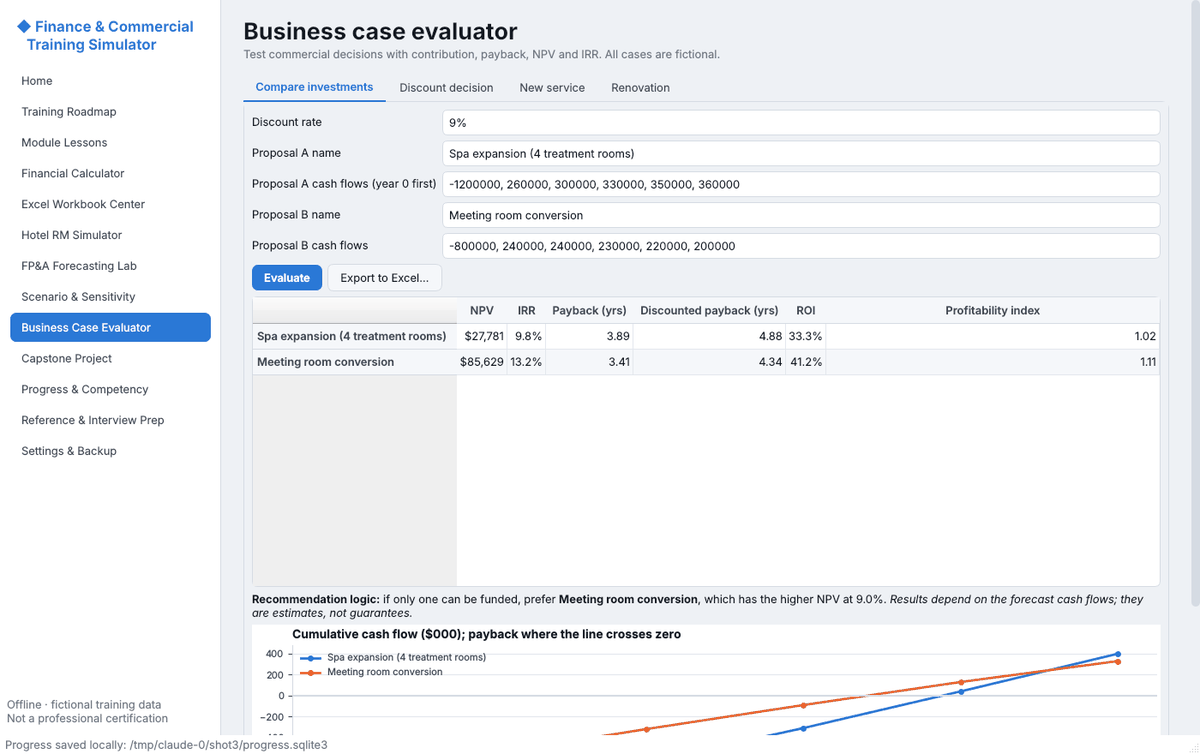
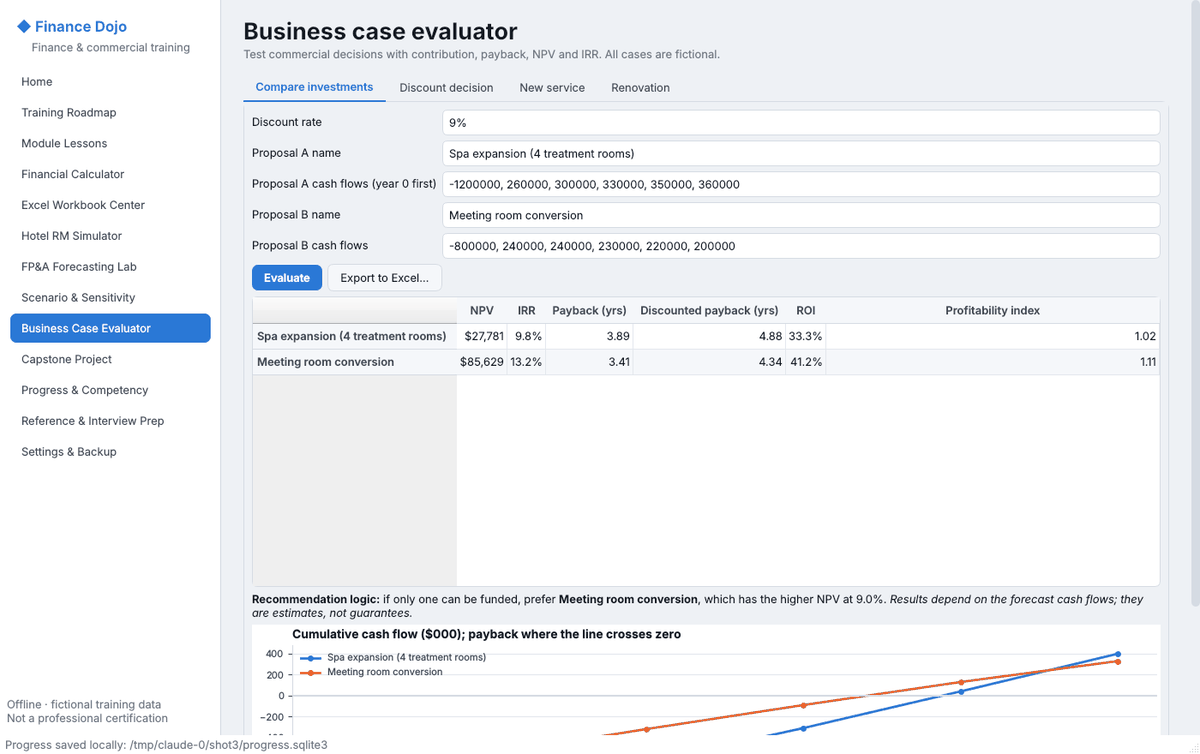
Rename the app to Finance Dojo
The window title, sidebar, exports, docs, exe, zip and build scripts now use
the Finance Dojo name. The per-user data folder becomes %APPDATA%\Finance_Dojo;
progress in the old Finance_Commercial_Training folder is copied over on first
start and the original is left in place.

Claude-Session: https://claude.ai/code/session_011X2bGRbbM1wG3sUYL2koaP

diff --git a/tests/test_paths.py b/tests/test_paths.py
@@ -1,0 +1,53 @@
+"""The per-user data folder, including the one-time copy from the pre-rename folder."""
+import os
+from pathlib import Path
+
+from fts import paths
+
+
+def _roots(monkeypatch, tmp_path):
+    monkeypatch.delenv("FTS_DATA_DIR", raising=False)
+    monkeypatch.setenv("APPDATA", str(tmp_path / "appdata"))
+    monkeypatch.setenv("HOME", str(tmp_path / "home"))
+    monkeypatch.setenv("USERPROFILE", str(tmp_path / "home"))
+    if os.name == "nt":
+        base = tmp_path / "appdata"
+        return base / paths.LEGACY_APP_NAME, base / paths.APP_NAME
+    base = tmp_path / "home"
+    return base / paths.LEGACY_HOME_DIR, base / ".finance_dojo"
+
+
+def test_old_progress_is_copied_to_new_folder(monkeypatch, tmp_path):
+    old, new = _roots(monkeypatch, tmp_path)
+    (old / "exports").mkdir(parents=True)
+    (old / "progress.sqlite3").write_bytes(b"saved progress")
+    (old / "exports" / "report.html").write_text("r")
+
+    assert paths.user_data_dir() == new
+    assert (new / "progress.sqlite3").read_bytes() == b"saved progress"
+    assert (new / "exports" / "report.html").exists()
+    assert (old / "progress.sqlite3").exists()          # original is kept
+
+
+def test_existing_new_folder_is_never_overwritten(monkeypatch, tmp_path):
+    old, new = _roots(monkeypatch, tmp_path)
+    old.mkdir(parents=True)
+    (old / "progress.sqlite3").write_bytes(b"old")
+    new.mkdir(parents=True)
+    (new / "progress.sqlite3").write_bytes(b"new")
+
+    assert paths.user_data_dir() == new
+    assert (new / "progress.sqlite3").read_bytes() == b"new"
+
+
+def test_fresh_install_creates_empty_folder(monkeypatch, tmp_path):
+    _, new = _roots(monkeypatch, tmp_path)
+    assert paths.user_data_dir() == new
+    assert new.is_dir() and not any(new.iterdir())
+
+
+def test_override_skips_migration(monkeypatch, tmp_path):
+    old, _ = _roots(monkeypatch, tmp_path)
+    old.mkdir(parents=True)
+    monkeypatch.setenv("FTS_DATA_DIR", str(tmp_path / "custom"))
+    assert paths.user_data_dir() == Path(tmp_path / "custom")

diff --git a/fts/paths.py b/fts/paths.py
@@ -2,10 +2,14 @@
 from __future__ import annotations
 
 import os
+import shutil
 import sys
 from pathlib import Path
 
-APP_NAME = "Finance_Commercial_Training"
+APP_NAME = "Finance_Dojo"
+# Folder names used before the app was renamed; progress found there is copied over once.
+LEGACY_APP_NAME = "Finance_Commercial_Training"
+LEGACY_HOME_DIR = ".finance_commercial_training"
 
 
 def resource_root() -> Path:
@@ -30,8 +34,8 @@ def docs_dir() -> Path:
 def user_data_dir() -> Path:
     """Writable per-user folder for the progress database and exports.
 
-    Windows: %APPDATA%/Finance_Commercial_Training
-    Other:   ~/.finance_commercial_training
+    Windows: %APPDATA%/Finance_Dojo
+    Other:   ~/.finance_dojo
     Override with the FTS_DATA_DIR environment variable (used by tests).
     """
     override = os.environ.get("FTS_DATA_DIR")
@@ -39,10 +43,25 @@ def user_data_dir() -> Path:
         p = Path(override)
     elif os.name == "nt" and os.environ.get("APPDATA"):
         p = Path(os.environ["APPDATA"]) / APP_NAME
+        _adopt_legacy(Path(os.environ["APPDATA"]) / LEGACY_APP_NAME, p)
     else:
-        p = Path.home() / ".finance_commercial_training"
+        p = Path.home() / ".finance_dojo"
+        _adopt_legacy(Path.home() / LEGACY_HOME_DIR, p)
     p.mkdir(parents=True, exist_ok=True)
     return p
+
+
+def _adopt_legacy(old: Path, new: Path) -> None:
+    """Copy progress from the pre-rename folder the first time the new one is needed.
+
+    The old folder is left in place, so nothing is lost if the copy is interrupted.
+    """
+    if new.exists() or not old.is_dir():
+        return
+    try:
+        shutil.copytree(old, new)
+    except OSError:
+        shutil.rmtree(new, ignore_errors=True)
 
 
 def exports_dir() -> Path:

diff --git a/fts/reports/export.py b/fts/reports/export.py
@@ -159,7 +159,7 @@ h1{{color:#1f3a5f}} table.t{{border-collapse:collapse;width:100%;font-size:13px;
 .t th{{background:#1f3a5f;color:#fff;padding:6px;text-align:left}} .t td{{border-bottom:1px solid #e3e7ed;padding:5px}}
 .note{{background:#fff7e0;border:1px solid #f0d58a;padding:10px;border-radius:6px}}</style></head><body>
 <h1>Final competency report: {html.escape(name)}</h1>
-<p>Generated {dt.datetime.now():%d %b %Y %H:%M} · Finance &amp; Commercial Training Simulator</p>
+<p>Generated {dt.datetime.now():%d %b %Y %H:%M} · Finance Dojo</p>
 <p><b>Exercise attempts:</b> {n_att} ({n_ok} correct) · <b>Capstone:</b> {cap}</p>
 <p class="note">{DISCLAIMER_CERT} Levels: Beginner &lt; 40 ≤ Developing &lt; 70 ≤ Competent. "Job-ready for supervised
 tasks" also requires a score of 85+, all practical exercises solved without revealing the solution, all practical
@@ -176,7 +176,7 @@ def progress_report_xlsx(ctx_db, skills, path) -> Path:
 
 def answer_key_markdown() -> str:
     out = ["# Instructor answer key", "",
-           "Finance & Commercial Training Simulator. All data is fictional. Answers are generated from the same "
+           "Finance Dojo. All data is fictional. Answers are generated from the same "
            "code the app uses to check students, and selected values are verified by independent hand calculations "
            "in the automated tests (`tests/test_content.py`).", "",
            "Tolerance: percentages ±0.06 percentage points; currency ±$0.60 or 0.05%; numbers ±0.01 or 0.05% unless "

diff --git a/fts/ui/app.py b/fts/ui/app.py
@@ -21,7 +21,7 @@ from ..core import mastery
 from ..storage.db import Progress
 from . import theme
 
-APP_TITLE = "Finance & Commercial Training Simulator"
+APP_TITLE = "Finance Dojo"
 
 # key: (navigation title, module path, class name)
 SCREENS = {
@@ -114,9 +114,12 @@ class MainWindow(QMainWindow):
         side.setFixedWidth(258)
         sl = QVBoxLayout(side)
         sl.setContentsMargins(8, 12, 8, 12)
-        brand = QLabel("◆ Finance & Commercial\n   Training Simulator")
+        brand = QLabel("◆ Finance Dojo")
         brand.setObjectName("Brand")
         sl.addWidget(brand)
+        tagline = QLabel("Finance & commercial training")
+        tagline.setObjectName("BrandSub")
+        sl.addWidget(tagline)
         self.nav = QListWidget()
         self.nav.setObjectName("Nav")
         for key, (title, *_rest) in SCREENS.items():
@@ -247,7 +250,7 @@ def self_test(app: QApplication) -> int:
 def run(argv=None) -> int:
     argv = argv if argv is not None else sys.argv
     app = QApplication.instance() or QApplication(argv)
-    app.setApplicationName("Finance_Commercial_Training")
+    app.setApplicationName("Finance_Dojo")
     app.setStyle("Fusion")          # same look on every Windows version; the stylesheet themes it
     if "--self-test" in argv:
         return self_test(app)

diff --git a/fts/ui/theme.py b/fts/ui/theme.py
@@ -58,7 +58,8 @@ QLabel#Bad {{ color: {p.bad}; font-weight: 600; }}
 QLabel#Warn {{ color: {p.warn}; font-weight: 600; }}
 QFrame#Card {{ background: {p.surface}; border: 1px solid {p.border}; border-radius: 10px; }}
 QFrame#Sidebar {{ background: {p.surface}; border-right: 1px solid {p.border}; }}
-QLabel#Brand {{ font-size: {base_pt + 3}pt; font-weight: 700; color: {p.accent}; padding: 8px 6px; }}
+QLabel#Brand {{ font-size: {base_pt + 3}pt; font-weight: 700; color: {p.accent}; padding: 8px 6px 0px 6px; }}
+QLabel#BrandSub {{ color: {p.muted}; padding: 0px 6px 8px 26px; }}
 QListWidget#Nav {{ background: transparent; border: none; outline: 0; }}
 QListWidget#Nav::item {{ padding: 9px 10px; border-radius: 7px; margin: 1px 4px; color: {p.text2}; }}
 QListWidget#Nav::item:hover {{ background: {p.surface2}; }}

diff --git a/fts/ui/screens/settings.py b/fts/ui/screens/settings.py
@@ -96,7 +96,7 @@ class SettingsScreen(Screen):
         self.body.addWidget(inst)
 
         about = Card("About")
-        about.add(label("Finance & Commercial Training Simulator. Works offline. All companies, hotels and figures "
+        about.add(label("Finance Dojo. Works offline. All companies, hotels and figures "
                         "are fictional training data, not industry benchmarks. Forecasts and valuations in the app "
                         "are illustrative estimates, never guarantees. " + export.DISCLAIMER_CERT))
         self.body.addWidget(about)

diff --git a/fts/data/generator.py b/fts/data/generator.py
@@ -21,8 +21,8 @@ HOTEL_NAME = "The Aurelia Grand Hotel"      # fictional
 ROOMS = 150
 YEAR = 2025
 RETAIL_NAME = "Harbor Lane Outfitters"      # fictional
-DISCLAIMER = ("Fictional training data generated by Finance & Commercial Training "
-              "Simulator. Not real company or industry data.")
+DISCLAIMER = ("Fictional training data generated by Finance Dojo. "
+              "Not real company or industry data.")
 
 MONTHS = [calendar.month_abbr[i] for i in range(1, 13)]
 SEGMENTS = ["Corporate", "Transient", "Group", "Leisure"]

diff --git a/docs/USER_GUIDE.md b/docs/USER_GUIDE.md
@@ -1,18 +1,18 @@
-# User guide: Finance & Commercial Training Simulator
+# User guide: Finance Dojo
 
 A hands-on Windows desktop course in financial and commercial analysis for beginners. It covers financial foundations, Excel modelling, hotel revenue management, FP&A and budgeting, forecasting, commercial decisions, NPV/IRR, management reporting and a capstone project.
 
 The app works fully offline. Every company, hotel and number in it is **fictional training data**. It is not an industry benchmark. Forecasts and valuations in the app are illustrative estimates and never guarantees. **Completing this simulator is not a professional certification and does not guarantee employment.**
 
-> The ready-made Windows app is published as a zip on the repository's **Releases** page, and each build of the main branch is also available from the **Actions** tab (artifact `Finance_Commercial_Training_Windows`). See [VERIFICATION_REPORT.md](VERIFICATION_REPORT.md) for exactly what was tested and where.
+> The ready-made Windows app is published as a zip on the repository's **Releases** page, and each build of the main branch is also available from the **Actions** tab (artifact `Finance_Dojo_Windows`). See [VERIFICATION_REPORT.md](VERIFICATION_REPORT.md) for exactly what was tested and where.
 
 ---
 
 ## 1. Use the ready-made exe
 
-1. Download `Finance_Commercial_Training_Windows.zip` from the Releases page and unzip it, for example to `C:\FinanceTraining`.
-2. Double-click `Finance_Commercial_Training\Finance_Commercial_Training.exe`. Windows SmartScreen may warn because the exe is not code-signed. Click *More info → Run anyway*.
-3. Optional check: in that folder, type `cmd` in the address bar, then run `Finance_Commercial_Training.exe --self-test`. Then open `%APPDATA%\Finance_Commercial_Training\self_test_report.txt`; the last line should say `RESULT: PASS`.
+1. Download `Finance_Dojo_Windows.zip` from the Releases page and unzip it, for example to `C:\FinanceTraining`.
+2. Double-click `Finance_Dojo\Finance_Dojo.exe`. Windows SmartScreen may warn because the exe is not code-signed. Click *More info → Run anyway*.
+3. Optional check: in that folder, type `cmd` in the address bar, then run `Finance_Dojo.exe --self-test`. Then open `%APPDATA%\Finance_Dojo\self_test_report.txt`; the last line should say `RESULT: PASS`.
 
 ## 1b. Build the .exe yourself on Windows (about 10 minutes, one time)
 
@@ -28,12 +28,12 @@ The app works fully offline. Every company, hotel and number in it is **fictiona
 4. When it prints **BUILD SUCCEEDED**, the app is here:
 
    ```
-   dist\Finance_Commercial_Training\Finance_Commercial_Training.exe
+   dist\Finance_Dojo\Finance_Dojo.exe
    ```
 
-   A zip of that folder is at `dist\Finance_Commercial_Training_Windows.zip`. Copy the zip to any Windows 10/11 PC, unzip it and double-click the exe. That PC does not need Python.
+   A zip of that folder is at `dist\Finance_Dojo_Windows.zip`. Copy the zip to any Windows 10/11 PC, unzip it and double-click the exe. That PC does not need Python.
 
-**Single-file exe instead of a folder:** run `build_windows.bat -OneFile`. The result is `dist\Finance_Commercial_Training.exe`. One file is easier to share, but it starts more slowly because it unpacks itself each time.
+**Single-file exe instead of a folder:** run `build_windows.bat -OneFile`. The result is `dist\Finance_Dojo.exe`. One file is easier to share, but it starts more slowly because it unpacks itself each time.
 
 **Manual equivalent** (PowerShell, in this folder):
 
@@ -42,8 +42,8 @@ py -3.12 -m venv .venv
 .\.venv\Scripts\python.exe -m pip install -r requirements-dev.txt
 .\.venv\Scripts\python.exe scripts\generate_assets.py
 .\.venv\Scripts\python.exe -m pytest -q
-.\.venv\Scripts\python.exe -m PyInstaller --noconfirm --clean Finance_Commercial_Training.spec
-.\dist\Finance_Commercial_Training\Finance_Commercial_Training.exe --self-test
+.\.venv\Scripts\python.exe -m PyInstaller --noconfirm --clean Finance_Dojo.spec
+.\dist\Finance_Dojo\Finance_Dojo.exe --self-test
 ```
 
 Problems? See [TROUBLESHOOTING.md](TROUBLESHOOTING.md).
@@ -54,7 +54,7 @@ Problems? See [TROUBLESHOOTING.md](TROUBLESHOOTING.md).
 python3.12 -m venv .venv
 .venv/bin/pip install -r requirements-dev.txt     # Windows: .venv\Scripts\pip
 .venv/bin/python main.py
-.venv/bin/python -m pytest -q                     # 164 tests
+.venv/bin/python -m pytest -q                     # 168 tests
 ```
 
 ## 3. What is inside the app
@@ -106,8 +106,8 @@ The app **creates and reads `.xlsx` files**. It does **not** open, control or ed
 - **XLOOKUP:** it is accepted, but needs Excel 2021 or Microsoft 365. Older versions can use INDEX/MATCH, which is the model answer.
 
 ## 4. Where things are stored
-- **Progress:** `%APPDATA%\Finance_Commercial_Training\progress.sqlite3` on Windows. Use Settings → Back up progress to copy it.
-- **Exports:** by default `%APPDATA%\Finance_Commercial_Training\exports\`. Settings has buttons that open both folders.
+- **Progress:** `%APPDATA%\Finance_Dojo\progress.sqlite3` on Windows. Use Settings → Back up progress to copy it.
+- **Exports:** by default `%APPDATA%\Finance_Dojo\exports\`. Settings has buttons that open both folders.
 - **Restore:** restoring checks that the file is a valid backup and keeps a safety copy of your current progress first.
 
 ## 5. Project layout
@@ -126,12 +126,12 @@ workbooks/                      practice workbook + instructor answer-key workbo
 docs/ANSWER_KEY.md              instructor answer key for every exercise, quiz, workbook task and capstone item
 docs/TROUBLESHOOTING.md         build and runtime problems
 docs/VERIFICATION_REPORT.md     what was tested, how, and what was not
-tests/                          164 automated tests (pytest)
+tests/                          168 automated tests (pytest)
 scripts/generate_assets.py      regenerate datasets, workbooks and the answer key
 scripts/make_icon.py            draws assets/app.ico
 scripts/build_exe_with_wine.sh  builds the Windows exe on Linux with Wine
 .github/workflows/windows.yml   CI: tests, exe build and exe self-test on Windows
-Finance_Commercial_Training.spec PyInstaller build definition
+Finance_Dojo.spec PyInstaller build definition
 build_windows.bat / .ps1        reproducible Windows build
 requirements.txt                pinned runtime packages (requirements-dev.txt adds pytest + PyInstaller)
 ```

diff --git a/docs/VERIFICATION_REPORT.md b/docs/VERIFICATION_REPORT.md
@@ -6,9 +6,9 @@ Date: 2026-10-16. Environment: Linux (Ubuntu 24.04 container) with Wine 9.0 for 
 
 | Item | Status |
 |---|---|
-| Automated test suite, Linux Python | **164 passed, 0 failed, 0 skipped** (`pytest -q`, with `QT_QPA_PLATFORM=offscreen` for the UI tests) |
-| Automated test suite, **Windows Python 3.12.10 under Wine** | **163 passed, 1 skipped.** The skipped test is the LibreOffice recalculation check, because LibreOffice is not installed on the Windows side. The UI tests ran with the Windows build of Qt |
-| **Windows `Finance_Commercial_Training.exe`** | **Built** with PyInstaller 6.11.1 running on Windows Python under Wine (`scripts/build_exe_with_wine.sh`). The result is a 64-bit Windows GUI executable (PE32+, x86-64), one-folder build, 190 MB unzipped and 83 MB zipped |
+| Automated test suite, Linux Python | **168 passed, 0 failed, 0 skipped** (after the rename to Finance Dojo) (`pytest -q`, with `QT_QPA_PLATFORM=offscreen` for the UI tests) |
+| Automated test suite, **Windows Python 3.12.10 under Wine** | **163 passed, 1 skipped** (164-test version, before the rename). The skipped test is the LibreOffice recalculation check, because LibreOffice is not installed on the Windows side. The UI tests ran with the Windows build of Qt |
+| **Windows exe under Wine** (then named `Finance_Commercial_Training.exe`) | **Built** with PyInstaller 6.11.1 running on Windows Python under Wine (`scripts/build_exe_with_wine.sh`). The result is a 64-bit Windows GUI executable (PE32+, x86-64), one-folder build, 190 MB unzipped and 83 MB zipped |
 | Exe self-test (`--self-test`) | **PASS, 29/29 under Wine:** all 12 screens open in both themes, and the RevPAR, NPV and answer-key grading checks pass |
 | Exe started normally as a window | **Done under Wine on a virtual display.** The window rendered correctly in the dark theme and the progress database was created in the data folder |
 | **Real Windows (GitHub Actions `windows-latest`, Windows Server 2025, 10.0.26100)** | **Passed** ([run 1](https://github.com/mutima89/finance-dojo/actions/runs/38874275356)). Tests: **163 passed, 1 skipped** (LibreOffice is not installed there). The exe was built with PyInstaller on Windows and **its `--self-test` passed 29/29** using Qt's native Windows platform (not offscreen). Every push to `main` repeats this |
@@ -37,13 +37,14 @@ Date: 2026-10-16. Environment: Linux (Ubuntu 24.04 container) with Wine 9.0 for 
 | `test_content.py` | 26 | 8 modules with all lesson parts; each expected answer is accepted when typed exactly as displayed; every skill is taught; selected answers recomputed independently by hand; the capstone totals 100 points and scores correctly; irrelevant KPIs are penalised; the cleaning answers are right |
 | `test_storage_mastery.py` | 10 | Progress persists across restarts; quiz and time logging; settings bounds; backup → reset → restore; exercise credit rules; **job-ready is impossible without the capstone, with quiz scores alone, or after revealing a practical solution**; weak-topic detection; hints fading |
 | `test_assets.py` | 16 | Every CSV in `datasets/`, `commercial_cases.json` and `docs/ANSWER_KEY.md` is byte-for-byte what the code generates; the bundled answer-key workbook grades 16/16 and the practice workbook grades as not attempted. |
+| `test_paths.py` | 4 | The data folder is `%APPDATA%\Finance_Dojo`; progress in the pre-rename folder (`%APPDATA%\Finance_Commercial_Training`) is copied over on first start and the original is kept; an existing new folder is never overwritten |
 | `test_ui_smoke.py` | 8 | Every screen opens; every button is clicked (file dialogs answered with temp paths); theme switch; an exercise flow (invalid → wrong → right, solved on attempt 2); the capstone scores 76/100 with all auto-scored items right and the written items blank; backup/restore through the Settings screen; corrupt backups rejected; startup → shutdown → restart keeps progress |
 
 ## Self-test built into the app
-`Finance_Commercial_Training.exe --self-test` opens every screen in both themes using a throw-away data folder, so real progress is never touched. It also checks RevPAR, NPV and the answer-key grading, then writes `self_test_report.txt` and exits with code 0 (pass) or 1 (fail). `build_windows.ps1` runs it on the freshly built exe. Last results: Windows exe under Wine `RESULT: PASS` (29/29 OK); Linux build `RESULT: PASS` (29/29 OK).
+`Finance_Dojo.exe --self-test` opens every screen in both themes using a throw-away data folder, so real progress is never touched. It also checks RevPAR, NPV and the answer-key grading, then writes `self_test_report.txt` and exits with code 0 (pass) or 1 (fail). `build_windows.ps1` runs it on the freshly built exe. Last results: Windows exe under Wine `RESULT: PASS` (29/29 OK); Linux build `RESULT: PASS` (29/29 OK).
 
 ## Known limitations
-- **Windows:** the exe was built and run under Wine, not on real Windows. Fonts on Windows will be Segoe UI, and spacing may differ slightly.
+- **Windows:** the exe is built and self-tested on Windows Server 2025 by GitHub Actions, but no person has yet run it on a Windows 10/11 desktop. Fonts there will be Segoe UI, and spacing may differ slightly from the screenshots.
 - **Excel:** the app does not control Microsoft Excel. It creates and grades `.xlsx` files with its own formula engine, which covers the functions the course uses, not all of Excel.
 - **Written answers:** capstone written answers and saved practical tasks get a structure check or checklist, not an assessment of quality. That needs an instructor.
 - **Time tracking:** active study time is an approximation (15-second ticks while the lesson screen is visible, the window is active and there was input in the last 5 minutes).

diff --git a/README.md b/README.md
@@ -2,7 +2,7 @@
 
 <img src="assets/app.png" width="96" alt="App icon">
 
-# Finance & Commercial Training Simulator
+# Finance Dojo
 
 **A hands-on Windows desktop course for Revenue Management, FP&A and Commercial Finance. You learn by building, checking and explaining real analyses.**
 
@@ -61,18 +61,18 @@ The main case study is **The Aurelia Grand**, a fictional 150-room luxury hotel.
 
 ## Download and run (Windows 10/11)
 
-1. Open the **[Releases](https://github.com/mutima89/finance-dojo/releases)** page and download `Finance_Commercial_Training_Windows.zip`. Every build of `main` is also available under **[Actions](https://github.com/mutima89/finance-dojo/actions/workflows/windows.yml)** → latest run → *Artifacts*.
-2. Unzip it anywhere, then double-click `Finance_Commercial_Training.exe`. Python is not needed.
+1. Open the **[Releases](https://github.com/mutima89/finance-dojo/releases)** page and download `Finance_Dojo_Windows.zip`. Every build of `main` is also available under **[Actions](https://github.com/mutima89/finance-dojo/actions/workflows/windows.yml)** → latest run → *Artifacts*.
+2. Unzip it anywhere, then double-click `Finance_Dojo.exe`. Python is not needed.
 3. The exe is not code-signed, so Windows SmartScreen may warn the first time. Click *More info → Run anyway*.
 
-To check the installation, run `Finance_Commercial_Training.exe --self-test`. It opens every screen in both themes and checks some calculations, then writes `%APPDATA%\Finance_Commercial_Training\self_test_report.txt`.
+To check the installation, run `Finance_Dojo.exe --self-test`. It opens every screen in both themes and checks some calculations, then writes `%APPDATA%\Finance_Dojo\self_test_report.txt`.
 
 ## Build from source
 
 **Windows (one command):** install [Python 3.12 (64-bit)](https://www.python.org/downloads/windows/) and tick *Add python.exe to PATH*. Then double-click **`build_windows.bat`**. It creates a virtual environment, installs the pinned packages, runs the tests, builds the exe with PyInstaller and self-tests it. The app ends up at:
 
 ```
-dist\Finance_Commercial_Training\Finance_Commercial_Training.exe
+dist\Finance_Dojo\Finance_Dojo.exe
 ```
 
 **Any OS, for development:**
@@ -81,14 +81,14 @@ dist\Finance_Commercial_Training\Finance_Commercial_Training.exe
 python3.12 -m venv .venv
 .venv/bin/pip install -r requirements-dev.txt      # Windows: .venv\Scripts\pip
 .venv/bin/python main.py                           # run the app
-QT_QPA_PLATFORM=offscreen .venv/bin/python -m pytest -q   # 164 tests
+QT_QPA_PLATFORM=offscreen .venv/bin/python -m pytest -q   # 168 tests
 ```
 
 On Linux without Windows you can still produce the Windows exe with Wine: `scripts/build_exe_with_wine.sh`.
 
 ## Testing
 
-- **164 automated tests:**
+- **168 automated tests:**
   - every finance formula is checked against **hand-calculated** values (occupancy, ADR, RevPAR, variances, contribution, break-even, NPV, IRR, payback, forecast reconciliation and division by zero);
   - the fictional datasets are checked to reconcile (the balance sheet balances, and cash flow ties out);
   - the Excel grader and formula engine are tested, and the answer-key workbook is recalculated by LibreOffice;

diff --git a/docs/TROUBLESHOOTING.md b/docs/TROUBLESHOOTING.md
@@ -18,7 +18,7 @@
 | Symptom | Fix |
 |---|---|
 | Windows SmartScreen: "Windows protected your PC" | The exe is not code-signed. Click *More info → Run anyway*. Only do this for a copy you built yourself or received from a trusted person. |
-| Nothing happens when you start the app | Run it once from a terminal: `Finance_Commercial_Training.exe --self-test`. Then read `%APPDATA%\Finance_Commercial_Training\self_test_report.txt`. |
+| Nothing happens when you start the app | Run it once from a terminal: `Finance_Dojo.exe --self-test`. Then read `%APPDATA%\Finance_Dojo\self_test_report.txt`. |
 | Blank or black window on an old PC or a remote desktop | Graphics driver issue with Qt. Try: `set QT_OPENGL=software` then start the exe from the same terminal. |
 | Text too small or too large | Settings → Text size. |
 | Charts look wrong after changing theme | Switch screen and back. If they stay wrong, restart the app; progress is saved continuously. |
@@ -30,4 +30,4 @@
 | Excel says the file is "Protected View" | Click *Enable Editing*. The workbook contains no macros. |
 
 ## Resetting completely
-Close the app and delete `%APPDATA%\Finance_Commercial_Training`. **This permanently deletes all progress**, so back it up first if you might want it.
+Close the app and delete `%APPDATA%\Finance_Dojo`. **This permanently deletes all progress**, so back it up first if you might want it.

diff --git a/docs/ANSWER_KEY.md b/docs/ANSWER_KEY.md
@@ -1,6 +1,6 @@
 # Instructor answer key
 
-Finance & Commercial Training Simulator. All data is fictional. Answers are generated from the same code the app uses to check students, and selected values are verified by independent hand calculations in the automated tests (`tests/test_content.py`).
+Finance Dojo. All data is fictional. Answers are generated from the same code the app uses to check students, and selected values are verified by independent hand calculations in the automated tests (`tests/test_content.py`).
 
 Tolerance: percentages ±0.06 percentage points; currency ±$0.60 or 0.05%; numbers ±0.01 or 0.05% unless noted. Equivalent formats (75%, 0.75, 75) are accepted.
 
